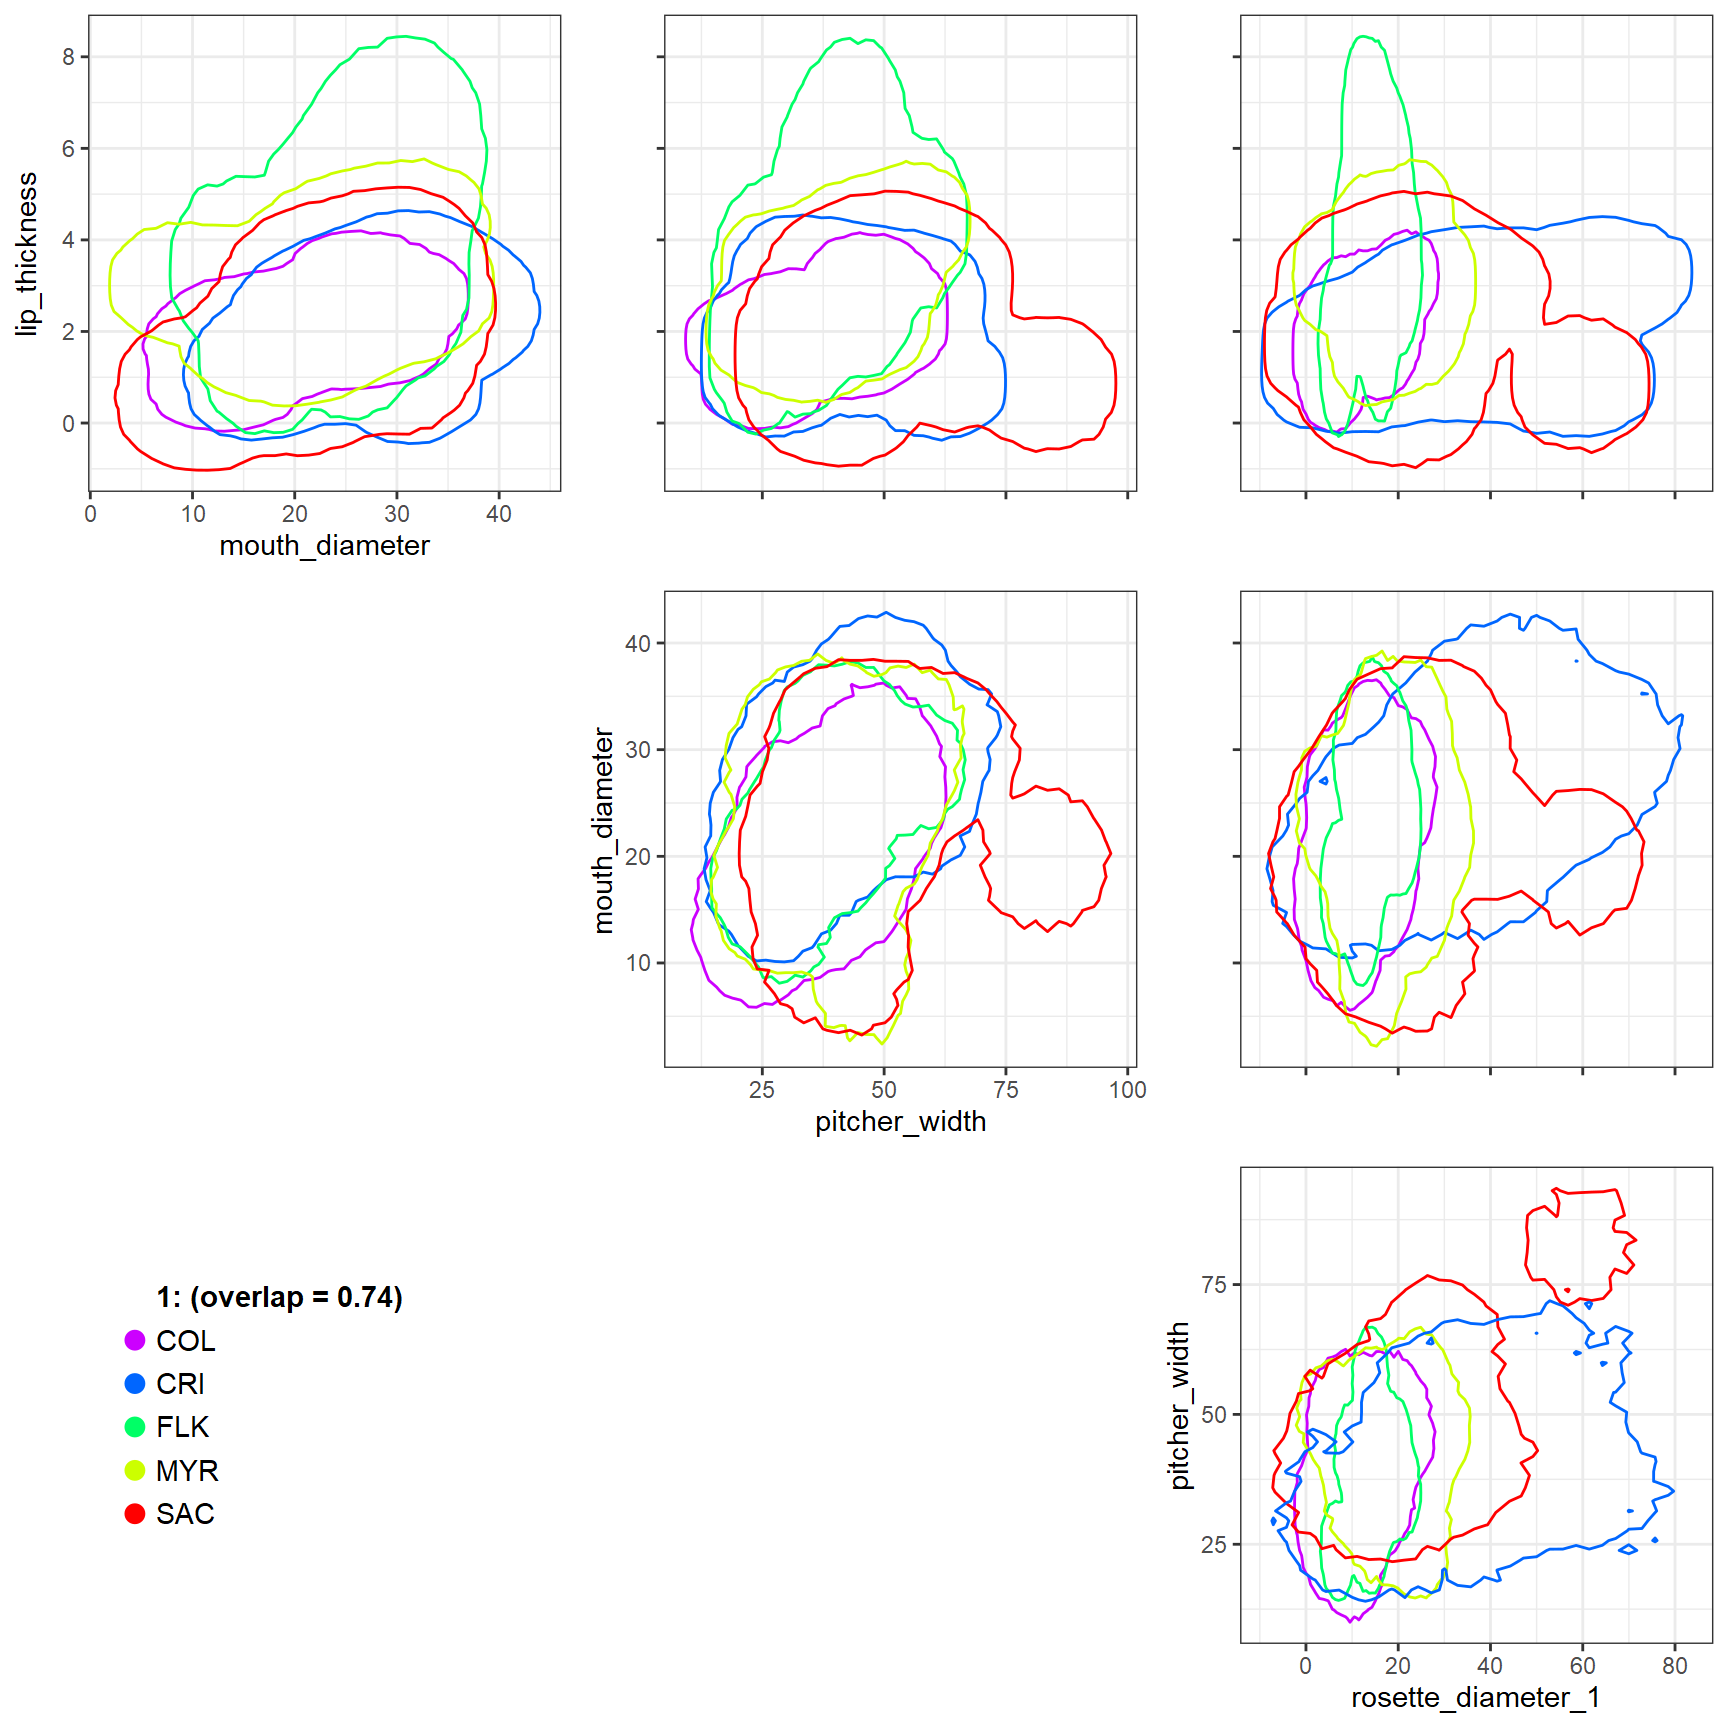
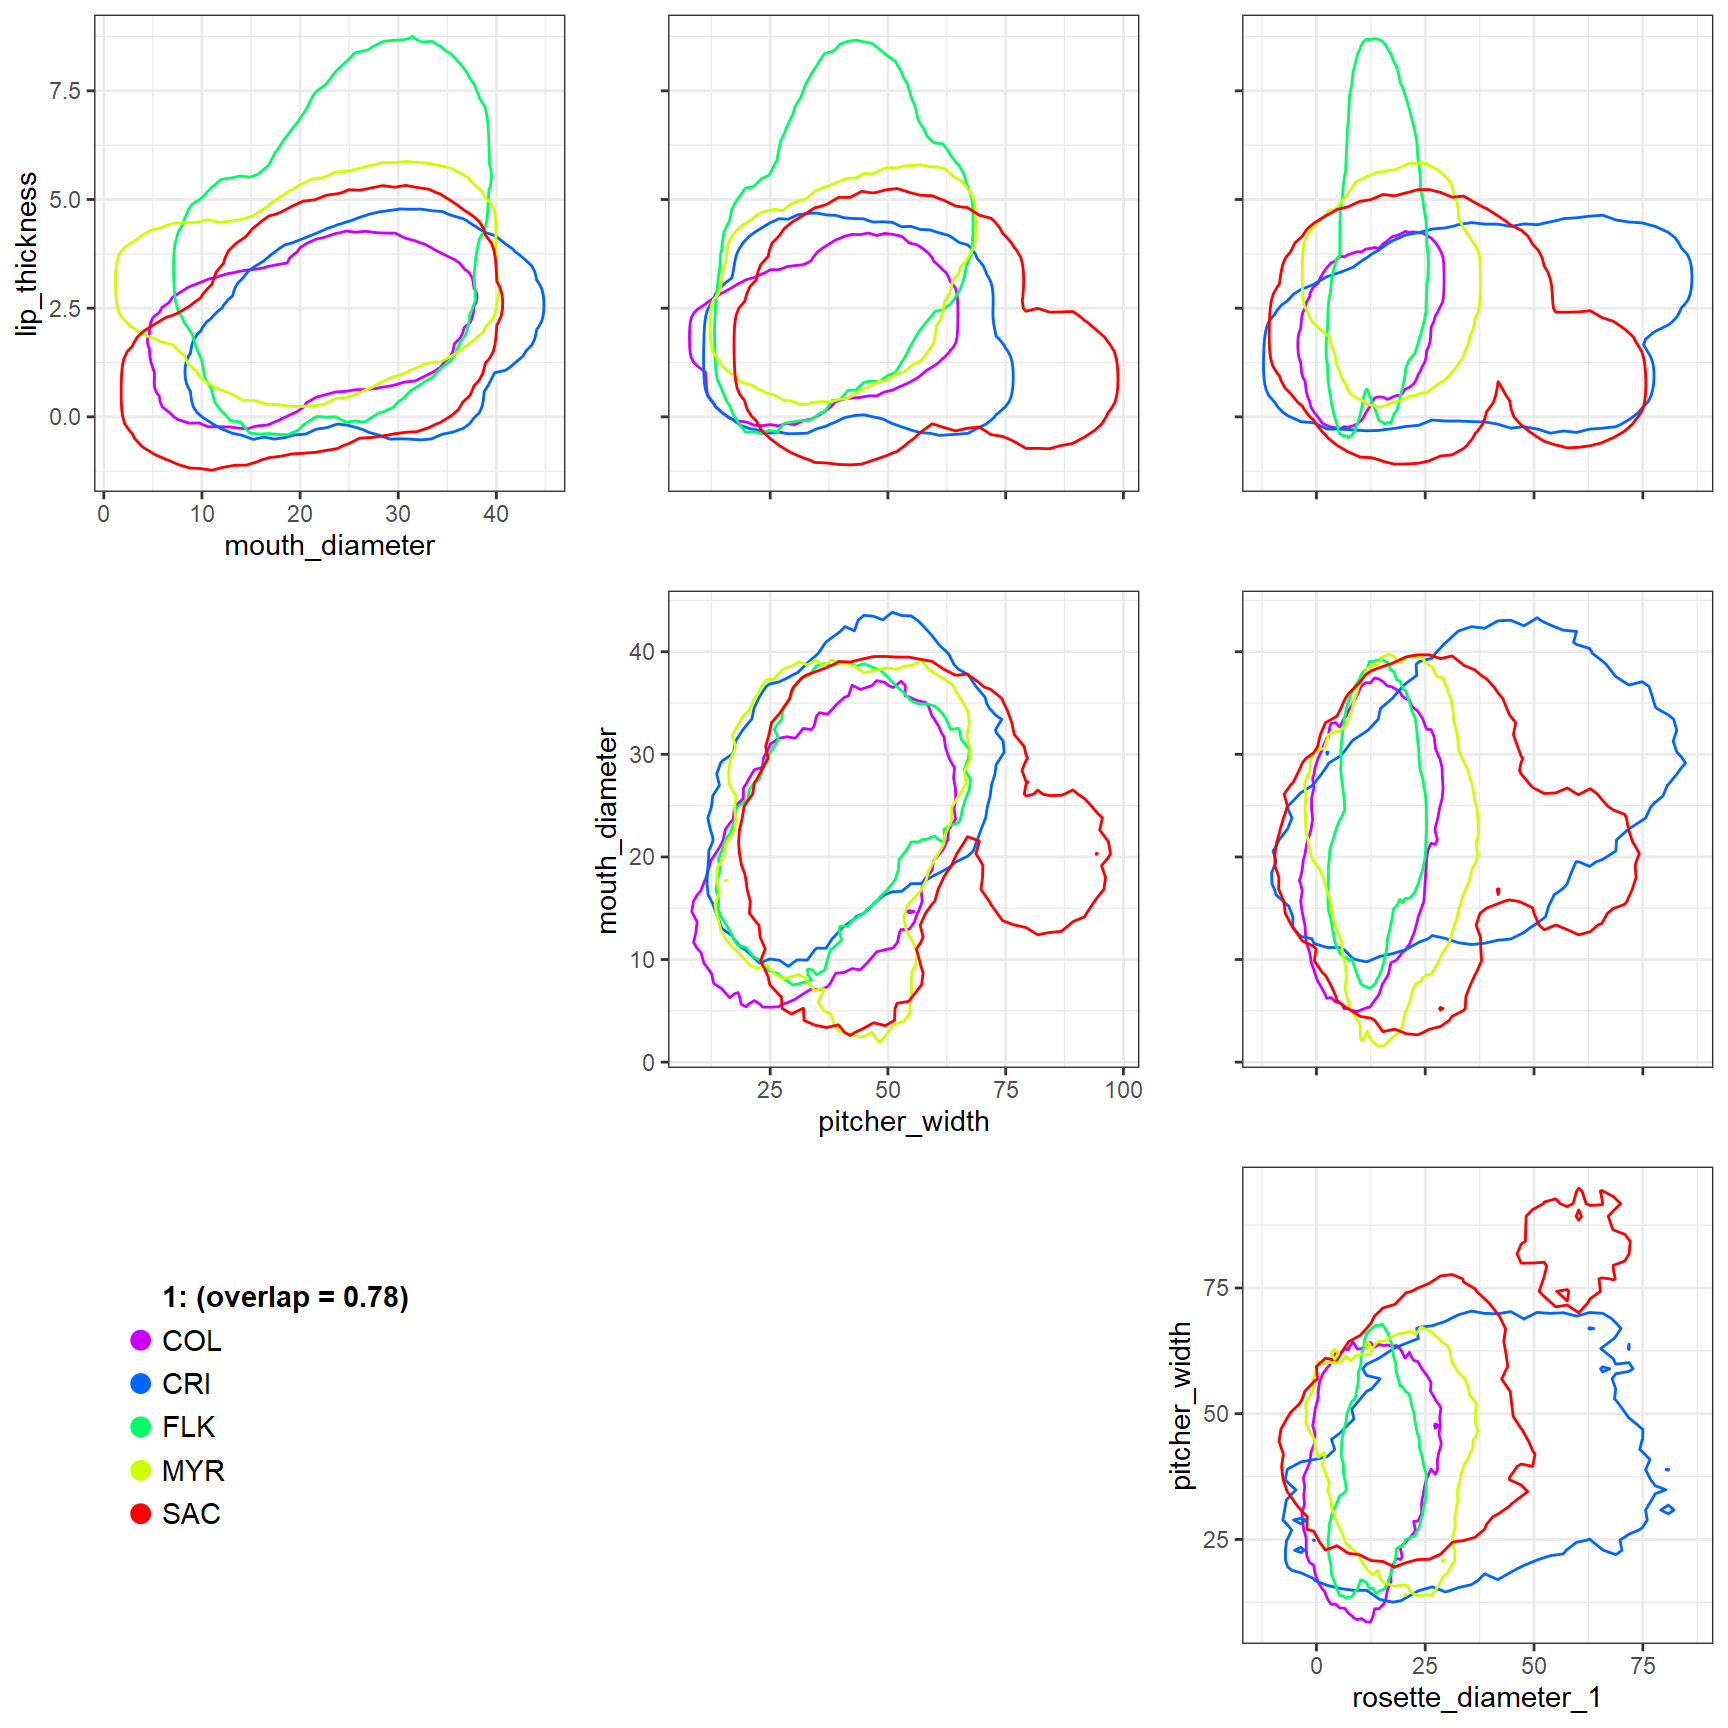
Update test for new hypervolume defaults and rebuild site

diff --git a/docs/reference/Ostats.html b/docs/reference/Ostats.html
@@ -331,7 +331,7 @@ Angela Strecker, Phoebe L. Zarnetske, and Sydne Record</p>
 <span class='r-in'>                   sp <span class='op'>=</span> <span class='fu'><a href='https://rdrr.io/r/base/factor.html'>factor</a></span><span class='op'>(</span><span class='va'>dat</span><span class='op'>$</span><span class='va'>taxonID</span><span class='op'>)</span>,</span>
 <span class='r-in'>                   plots <span class='op'>=</span> <span class='fu'><a href='https://rdrr.io/r/base/factor.html'>factor</a></span><span class='op'>(</span><span class='va'>dat</span><span class='op'>$</span><span class='va'>siteID</span><span class='op'>)</span>,</span>
 <span class='r-in'>                   nperm <span class='op'>=</span> <span class='fl'>10</span><span class='op'>)</span></span>
-<span class='r-msg co'><span class='r-pr'>#&gt;</span> Note: argument random_seed was not supplied; setting seed to 8491</span>
+<span class='r-msg co'><span class='r-pr'>#&gt;</span> Note: argument random_seed was not supplied; setting seed to 9205</span>
 <span class='r-msg co'><span class='r-pr'>#&gt;</span> Note: species abundances differ. Consider sampling equivalent numbers of individuals per species.</span>
 </pre>
   </div>

diff --git a/docs/articles/Ostats-multivariate.html b/docs/articles/Ostats-multivariate.html
@@ -350,7 +350,7 @@
 
 <span class="va">pitcher_multivariate</span><span class="op">$</span><span class="va">overlaps_norm</span>
 <span class="co">#&gt;        [,1]</span>
-<span class="co">#&gt; 1 0.7441601</span></code></pre></div>
+<span class="co">#&gt; 1 0.7784172</span></code></pre></div>
 <p>The single multivariate O-statistic is not comparable to the univariate statistics because of differing dimensionality. Therefore we need to evaluate them against null models.</p>
 </div>
 <div id="null-models-for-multivariate-o-statistics" class="section level2">
@@ -402,7 +402,7 @@
 <td align="right">0.742</td>
 <td align="right">0.820</td>
 <td align="right">0.573</td>
-<td align="right">0.745</td>
+<td align="right">0.768</td>
 </tr>
 <tr class="even">
 <td align="left">null 2.5%</td>
@@ -410,7 +410,7 @@
 <td align="right">0.760</td>
 <td align="right">0.767</td>
 <td align="right">0.731</td>
-<td align="right">0.727</td>
+<td align="right">0.766</td>
 </tr>
 <tr class="odd">
 <td align="left">null 97.5%</td>
@@ -418,7 +418,7 @@
 <td align="right">0.875</td>
 <td align="right">0.888</td>
 <td align="right">0.869</td>
-<td align="right">0.786</td>
+<td align="right">0.812</td>
 </tr>
 </tbody>
 </table>

diff --git a/docs/articles/Ostats-introduction.html b/docs/articles/Ostats-introduction.html
@@ -85,7 +85,7 @@
       <h1 data-toc-skip>O-stats: pairwise community-level niche overlap statistics</h1>
                         <h4 class="author">Arya Yue, Quentin D. Read, Isadora Essig Fluck, Benjamin Baiser, John M. Grady, Phoebe L. Zarnetske, Sydne Record</h4>
             
-            <h4 class="date">2021-11-02</h4>
+            <h4 class="date">2021-11-15</h4>
       
       <small class="dont-index">Source: <a href="https://github.com/NEON-biodiversity/Ostats/blob/master/vignettes/Ostats-introduction.Rmd"><code>vignettes/Ostats-introduction.Rmd</code></a></small>
       <div class="hidden name"><code>Ostats-introduction.Rmd</code></div>
